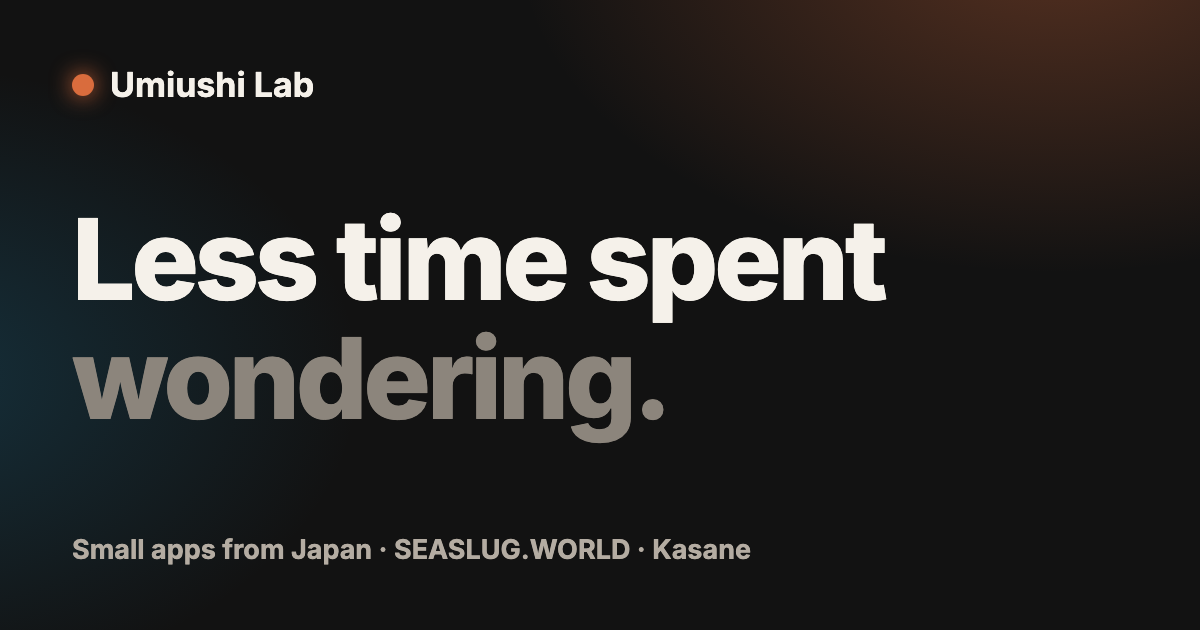
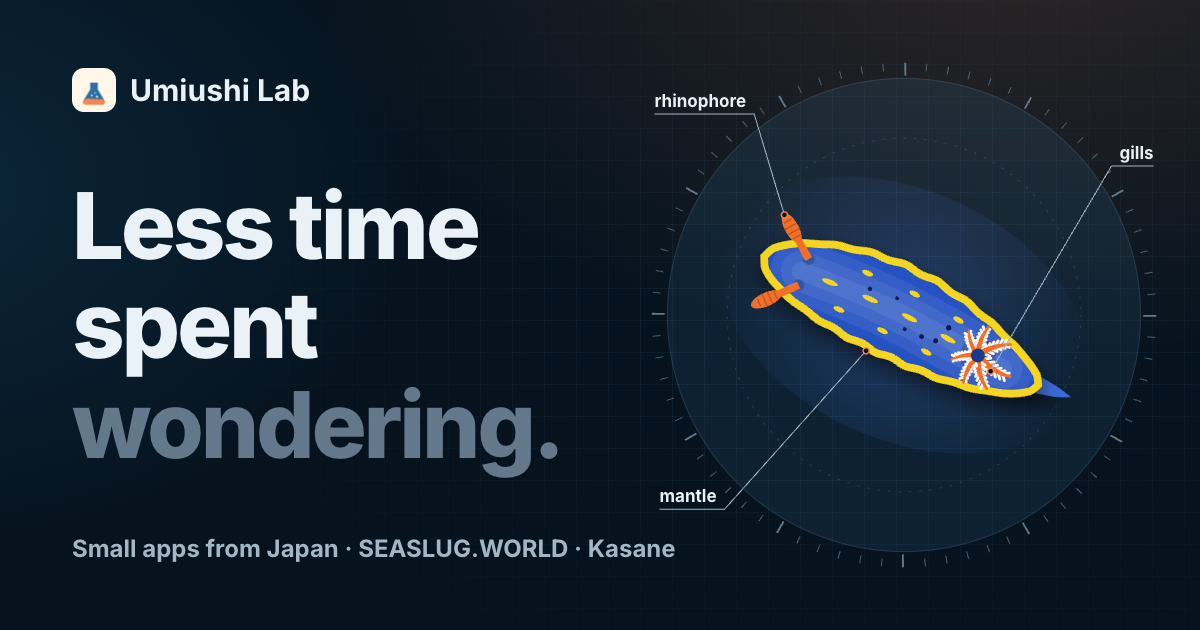
トップ: 「架空の個体をつくる」ボタンを足す(実在の 7 種とは別、札は No. X-0000 で図鑑へのリンクなし)。OG 画像を新しい見た目に(日英)

diff --git a/assets/lab.js b/assets/lab.js
@@ -80,6 +80,30 @@
   const ORDER = ['festiva', 'orientalis', 'apolegma', 'babai', 'cruenta', 'glaucus', 'yugoikedai'];
   ORDER.forEach((k, i) => { const sp = SPECIES[k]; sp.key = k; sp.no = i + 1; sp.sway = sp.sway || 0.12; sp.waves = 0.9 + (i % 3) * 0.12; });
 
+  // 架空の個体(ラボで作る)。番号が同じなら同じ個体になる。色の組は (体, ふち, 模様, 触角, エラ)
+  const FAKE_D = [
+    ['#F2884B', '#FFE3C2', '#FFFFFF', '#D95F26', '#FFFFFF'], ['#22B3A4', '#FFEBB0', '#0C4A53', '#FFB23F', '#FFEBB0'],
+    ['#1B1F27', '#FF7A1A', '#37D6C9', '#FF7A1A', '#37D6C9'], ['#FFDF4A', '#FFFFFF', '#22242C', '#22242C', '#FFFFFF'],
+    ['#E5485D', '#FFFFFF', '#FFFFFF', '#FFE0E4', '#FFD0D6'], ['#7A5CE0', '#B8F2E6', '#FFE66D', '#FF8FA3', '#B8F2E6'],
+    ['#2E9E5B', '#F4F1DE', '#F2CC8F', '#E07A5F', '#F4F1DE'], ['#F4F1E8', '#E5485D', '#2B5FD9', '#2B5FD9', '#E5485D'],
+  ];
+  const FAKE_A = [['#EDE7F8', '#E23D6E', '#F4A6BD'], ['#E6DEFF', '#FF6A3D', '#FFB199'], ['#DDF1FF', '#1F6FEB', '#6FA8FF'], ['#FFE9CF', '#8A3F1B', '#FFD9A8'], ['#E4F7EC', '#22B3A4', '#B8F2E6']];
+  function makeFake(seed) {
+    const r = rng(seed * 7919 + 13), pick = (a) => a[Math.floor(r() * a.length)];
+    const sp = { fake: true, no: seed, mm: 12 + Math.floor(r() * 52), sway: 0.1 + r() * 0.1, waves: 0.8 + r() * 0.4 };
+    if (r() < 0.2) {
+      const [body, cer, rhino] = pick(FAKE_A);
+      return Object.assign(sp, { type: 'aeolid', slim: 0.07 + r() * 0.02, sway: sp.sway * 1.2, body, cer, sac: mix(cer, '#000000', 0.25), rhino, nCer: 8 + Math.floor(r() * 5) });
+    }
+    const [body, margin, mark, rhino, gill] = pick(FAKE_D), band = 0.1 + r() * 0.08, pat = pick(['spots', 'spots', 'stripes', 'dashes', 'plain']);
+    Object.assign(sp, { type: 'dorid', slim: 0.18 + r() * 0.05, frill: 0.04 + r() * 0.1, frillN: 5 + Math.floor(r() * 9), body, foot: mix(body, '#ffffff', 0.35),
+      bands: r() < 0.4 ? [[band, margin], [band * 1.7, mark]] : [[band, margin]], marks: [], stripes: [], rhino, stalk: rhino, gillAxis: gill, gillPin: gill, nGill: 5 + Math.floor(r() * 5), gillSize: 0.95 + r() * 0.3 });
+    if (pat === 'spots') sp.marks = scatter(seed, { n: 7 + Math.floor(r() * 10), t: [0.2, 0.9], s: [0, 0.62], both: 1, r: [0.05, 0.11], c: mark, gap: 0.3 });
+    if (pat === 'dashes') sp.marks = scatter(seed, { n: 6 + Math.floor(r() * 6), t: [0.22, 0.88], s: [0, 0.55], both: 1, r: [0.045, 0.06], e: 2.4, c: mark, gap: 0.34 });
+    if (pat === 'stripes') sp.stripes = pick([[0], [-0.4, 0.4], [-0.48, 0, 0.48]]).map((s) => [s, mark]);
+    return sp;
+  }
+
   const prof = (sp, t) => {
     t = Math.min(1, Math.max(0, t));
     if (sp.type === 'dorid') return Math.pow(Math.sin(Math.PI * t), 0.5) * (1 - 0.15 * t);
@@ -209,6 +233,8 @@
         const p = P(q.t, q.s); ctx.fillStyle = q.c;
         ctx.beginPath(); ctx.ellipse(p.x, p.y, W * q.r * q.e, W * q.r, p.a, 0, TAU); ctx.fill();
       }
+      ctx.lineWidth = W * 0.085;
+      for (const [s, c] of sp.stripes || []) { lineAlong(0.2, s ? 0.86 : 0.64, s); ctx.strokeStyle = c; ctx.stroke(); }
       ctx.restore();
       blob(ctx, O); edge();
       anchors.mantle = scr(P(0.44, fr(0)(0.44)));
@@ -368,14 +394,18 @@
       scale.appendChild(el('path', { d: `M${sx - px} ${sy - 5}v10M${sx - px} ${sy}H${sx}M${sx} ${sy - 5}v10` }));
       const st = el('text', { x: sx, y: sy - 11, 'text-anchor': 'end' }); st.textContent = '10 mm'; scale.appendChild(st);
       svg.appendChild(scale);
-      cv.setAttribute('aria-label', en ? `Stylized drawing of ${sp.sci}, a sea slug, seen from above with its parts labelled` : `${sp.ja}(${sp.sci})を背中から見た、図案化した絵。部位の名前を添えています`);
+      cv.setAttribute('aria-label', sp.fake ? (en ? 'Drawing of an imaginary sea slug seen from above, with its parts labelled' : '架空のウミウシを背中から見た絵。部位の名前を添えています') : en ? `Stylized drawing of ${sp.sci}, a sea slug, seen from above with its parts labelled` : `${sp.ja}(${sp.sci})を背中から見た、図案化した絵。部位の名前を添えています`);
       if (plate) {
         plate.hidden = false;
-        plate.querySelector('.n').textContent = String(sp.no).padStart(2, '0');
+        plate.querySelector('.n').textContent = sp.fake ? 'X-' + String(sp.no).padStart(4, '0') : String(sp.no).padStart(2, '0');
         plate.querySelector('.mm').textContent = sp.mm;
-        const a = plate.querySelector('.sp'); a.href = guide + sp.sci.toLowerCase().replace(/ /g, '_');
-        const ja = a.querySelector('.ja'); if (ja) ja.textContent = sp.ja;
-        a.querySelector('.sci').textContent = sp.sci;
+        const a = plate.querySelector('.sp'), fk = plate.querySelector('.fake');
+        a.hidden = !!sp.fake; if (fk) fk.hidden = !sp.fake;
+        if (!sp.fake) {
+          a.href = guide + sp.sci.toLowerCase().replace(/ /g, '_');
+          const ja = a.querySelector('.ja'); if (ja) ja.textContent = sp.ja;
+          a.querySelector('.sci').textContent = sp.sci;
+        }
         const note = stage.querySelector('.plate-note'); if (note) note.hidden = false;
       }
     };
@@ -397,15 +427,16 @@
         want = Math.max(-0.5, Math.min(0.5, ly / (r.width * 0.9)));
       }, { passive: true });
     }
-    const again = stage.querySelector('.again');
-    if (again) again.addEventListener('click', () => { // 次の種へ(一覧の順)
+    let real = 0; // いま(または最後に)出ていた実在の種
+    const swap = (next) => {
       stage.classList.add('swap');
-      setTimeout(() => {
-        it.spec = SPECIES[ORDER[it.spec.no % ORDER.length]];
-        it.layout(); if (reduce) paint(it, 0);
-        stage.classList.remove('swap');
-      }, reduce ? 0 : 200);
-    });
+      setTimeout(() => { it.spec = next(); it.layout(); if (reduce) paint(it, 0); stage.classList.remove('swap'); }, reduce ? 0 : 200);
+    };
+    const again = stage.querySelector('.again:not(.make)'), make = stage.querySelector('.make');
+    // 次の種へ(一覧の順)。架空の個体のあとは、続きの種に戻る
+    if (again) again.addEventListener('click', () => swap(() => { real = (real + 1) % ORDER.length; return SPECIES[ORDER[real]]; }));
+    // ラボで架空の個体を作る
+    if (make) { make.hidden = false; make.addEventListener('click', () => swap(() => makeFake(1 + Math.floor(Math.random() * 9999)))); }
     it.layout();
   }
 

diff --git a/index.html b/index.html
@@ -39,7 +39,7 @@
 <link rel="stylesheet" href="https://fonts.googleapis.com/css2?family=Inter:wght@400;600;700;800&family=Noto+Sans+JP:wght@400;700;800&display=swap" media="print" onload="this.media='all'">
 <noscript><link rel="stylesheet" href="https://fonts.googleapis.com/css2?family=Inter:wght@400;600;700;800&family=Noto+Sans+JP:wght@400;700;800&display=swap"><style>.reveal{opacity:1;transform:none}</style></noscript>
 <link rel="stylesheet" href="./assets/site.css?v=20261110">
-<link rel="stylesheet" href="./assets/lab.css?v=20261110">
+<link rel="stylesheet" href="./assets/lab.css?v=20261110b">
 </head>
 <body>
 <header class="nav">
@@ -64,7 +64,7 @@
         <canvas role="img" aria-label="アオウミウシを背中から見た、図案化した絵"></canvas>
         <svg class="callouts" aria-hidden="true"></svg>
       </div>
-      <p class="plate" hidden><span>標本 No. <b class="n">01</b></span><a class="sp" href="https://seaslug.world/species/hypselodoris_festiva"><b class="ja">アオウミウシ</b> <i class="sci">Hypselodoris festiva</i></a><span>体長 <b class="mm">30</b> mm</span><button class="again" type="button">べつの種を見る</button></p>
+      <p class="plate" hidden><span>標本 No. <b class="n">01</b></span><a class="sp" href="https://seaslug.world/species/hypselodoris_festiva"><b class="ja">アオウミウシ</b> <i class="sci">Hypselodoris festiva</i></a><span class="fake" hidden>架空の個体</span><span>体長 <b class="mm">30</b> mm</span><button class="again" type="button">べつの種を見る</button><button class="again make" type="button" hidden>架空の個体をつくる</button></p>
       <p class="plate-note" hidden>絵は図案化しています。種名を押すと、世界のウミウシの図鑑が開きます。</p>
     </div>
   </section>
@@ -135,7 +135,7 @@
 
 <footer class="site"><div class="crawl" aria-hidden="true"></div><div class="wrap"><span>© 2026 うみうしラボ</span><span><a href="./kasane-diary/">かさね日記</a> · <a href="https://seaslug.world/">世界のウミウシ</a> · <a href="https://kirerumae.com/">きれるまえ</a></span></div></footer>
 <script src="./assets/site.js?v=20261110"></script>
-<script src="./assets/lab.js?v=20261110" defer></script>
+<script src="./assets/lab.js?v=20261110b" defer></script>
 <script async src="https://www.googletagmanager.com/gtag/js?id=G-YYZQDTEPR0"></script>
 <script>window.dataLayer=window.dataLayer||[];function gtag(){dataLayer.push(arguments);}gtag('js',new Date());gtag('config','G-YYZQDTEPR0');</script>
 <!-- Cloudflare Web Analytics --><script type='module' src='https://static.cloudflareinsights.com/beacon.min.js' data-cf-beacon='{"token": "8e368a03b62f48a98ec3d3205e06c11d"}'></script><!-- End Cloudflare Web Analytics -->

diff --git a/en/index.html b/en/index.html
@@ -35,7 +35,7 @@
 <link rel="stylesheet" href="https://fonts.googleapis.com/css2?family=Inter:wght@400;600;700;800&family=Noto+Sans+JP:wght@400;700;800&display=swap" media="print" onload="this.media='all'">
 <noscript><link rel="stylesheet" href="https://fonts.googleapis.com/css2?family=Inter:wght@400;600;700;800&family=Noto+Sans+JP:wght@400;700;800&display=swap"><style>.reveal{opacity:1;transform:none}</style></noscript>
 <link rel="stylesheet" href="../assets/site.css?v=20261110">
-<link rel="stylesheet" href="../assets/lab.css?v=20261110">
+<link rel="stylesheet" href="../assets/lab.css?v=20261110b">
 </head>
 <body>
 <header class="nav">
@@ -60,7 +60,7 @@
         <canvas role="img" aria-label="Stylized drawing of a sea slug seen from above"></canvas>
         <svg class="callouts" aria-hidden="true"></svg>
       </div>
-      <p class="plate" hidden><span>Specimen No. <b class="n">01</b></span><a class="sp" href="https://en.seaslug.world/species/hypselodoris_festiva"><i class="sci">Hypselodoris festiva</i></a><span>Length <b class="mm">30</b> mm</span><button class="again" type="button">Show another species</button></p>
+      <p class="plate" hidden><span>Specimen No. <b class="n">01</b></span><a class="sp" href="https://en.seaslug.world/species/hypselodoris_festiva"><i class="sci">Hypselodoris festiva</i></a><span class="fake" hidden>imaginary</span><span>Length <b class="mm">30</b> mm</span><button class="again" type="button">Show another species</button><button class="again make" type="button" hidden>Make an imaginary one</button></p>
       <p class="plate-note" hidden>Stylized drawings of real species. Tap a name to open it in the SEASLUG.WORLD field guide.</p>
     </div>
   </section>
@@ -115,7 +115,7 @@
 
 <footer class="site"><div class="crawl" aria-hidden="true"></div><div class="wrap"><span>© 2026 Umiushi Lab</span><span><a href="./kasane-diary/">Kasane</a> · <a href="https://en.seaslug.world/">SEASLUG.WORLD</a> · <a href="../" hreflang="ja" lang="ja">日本語</a></span></div></footer>
 <script src="../assets/site.js?v=20261110"></script>
-<script src="../assets/lab.js?v=20261110" defer></script>
+<script src="../assets/lab.js?v=20261110b" defer></script>
 <script async src="https://www.googletagmanager.com/gtag/js?id=G-YYZQDTEPR0"></script>
 <script>window.dataLayer=window.dataLayer||[];function gtag(){dataLayer.push(arguments);}gtag('js',new Date());gtag('config','G-YYZQDTEPR0');</script>
 <!-- Cloudflare Web Analytics --><script type='module' src='https://static.cloudflareinsights.com/beacon.min.js' data-cf-beacon='{"token": "8e368a03b62f48a98ec3d3205e06c11d"}'></script><!-- End Cloudflare Web Analytics -->

diff --git a/assets/lab.css b/assets/lab.css
@@ -74,6 +74,9 @@
 .plate::after { content: ""; flex-basis: 100%; order: 1; }
 .plate .again { order: 2; }
 .plate .again::before { content: "↻ "; color: var(--accent); }
+.plate .make::before { content: "+ "; }
+.plate .fake { color: var(--ink); font-family: var(--font); font-size: 14px; font-weight: 700; }
+.plate [hidden] { display: none; }
 @keyframes lab-spin { to { transform: rotate(360deg); } }
 
 /* 泡 */
